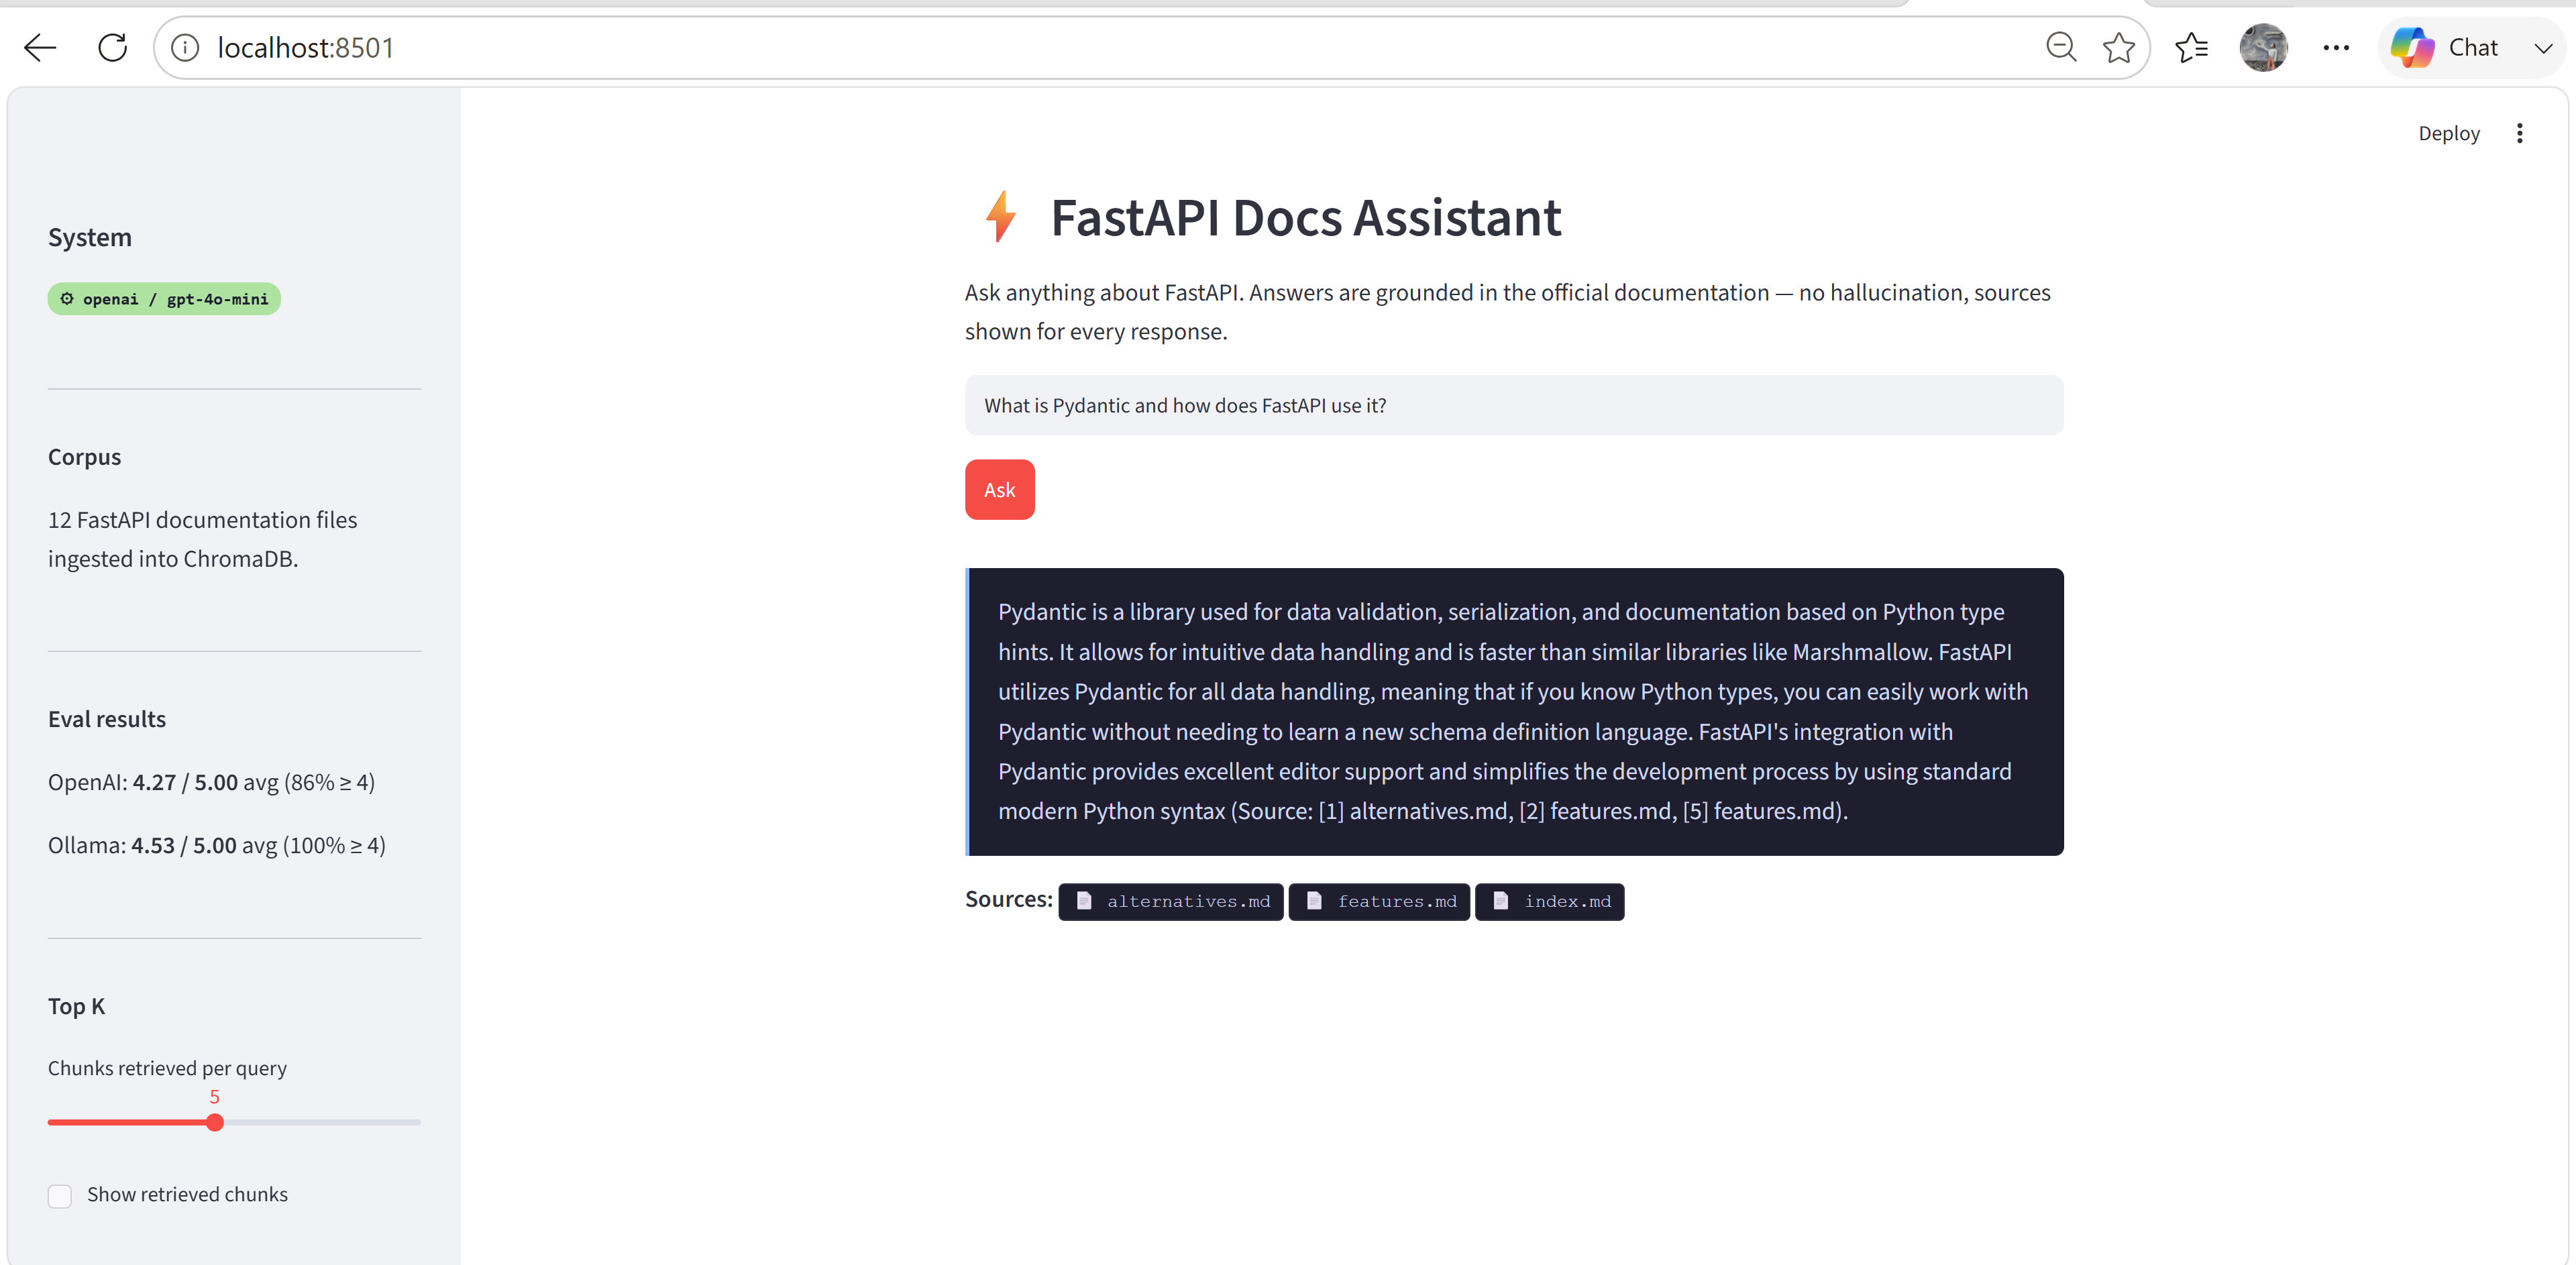
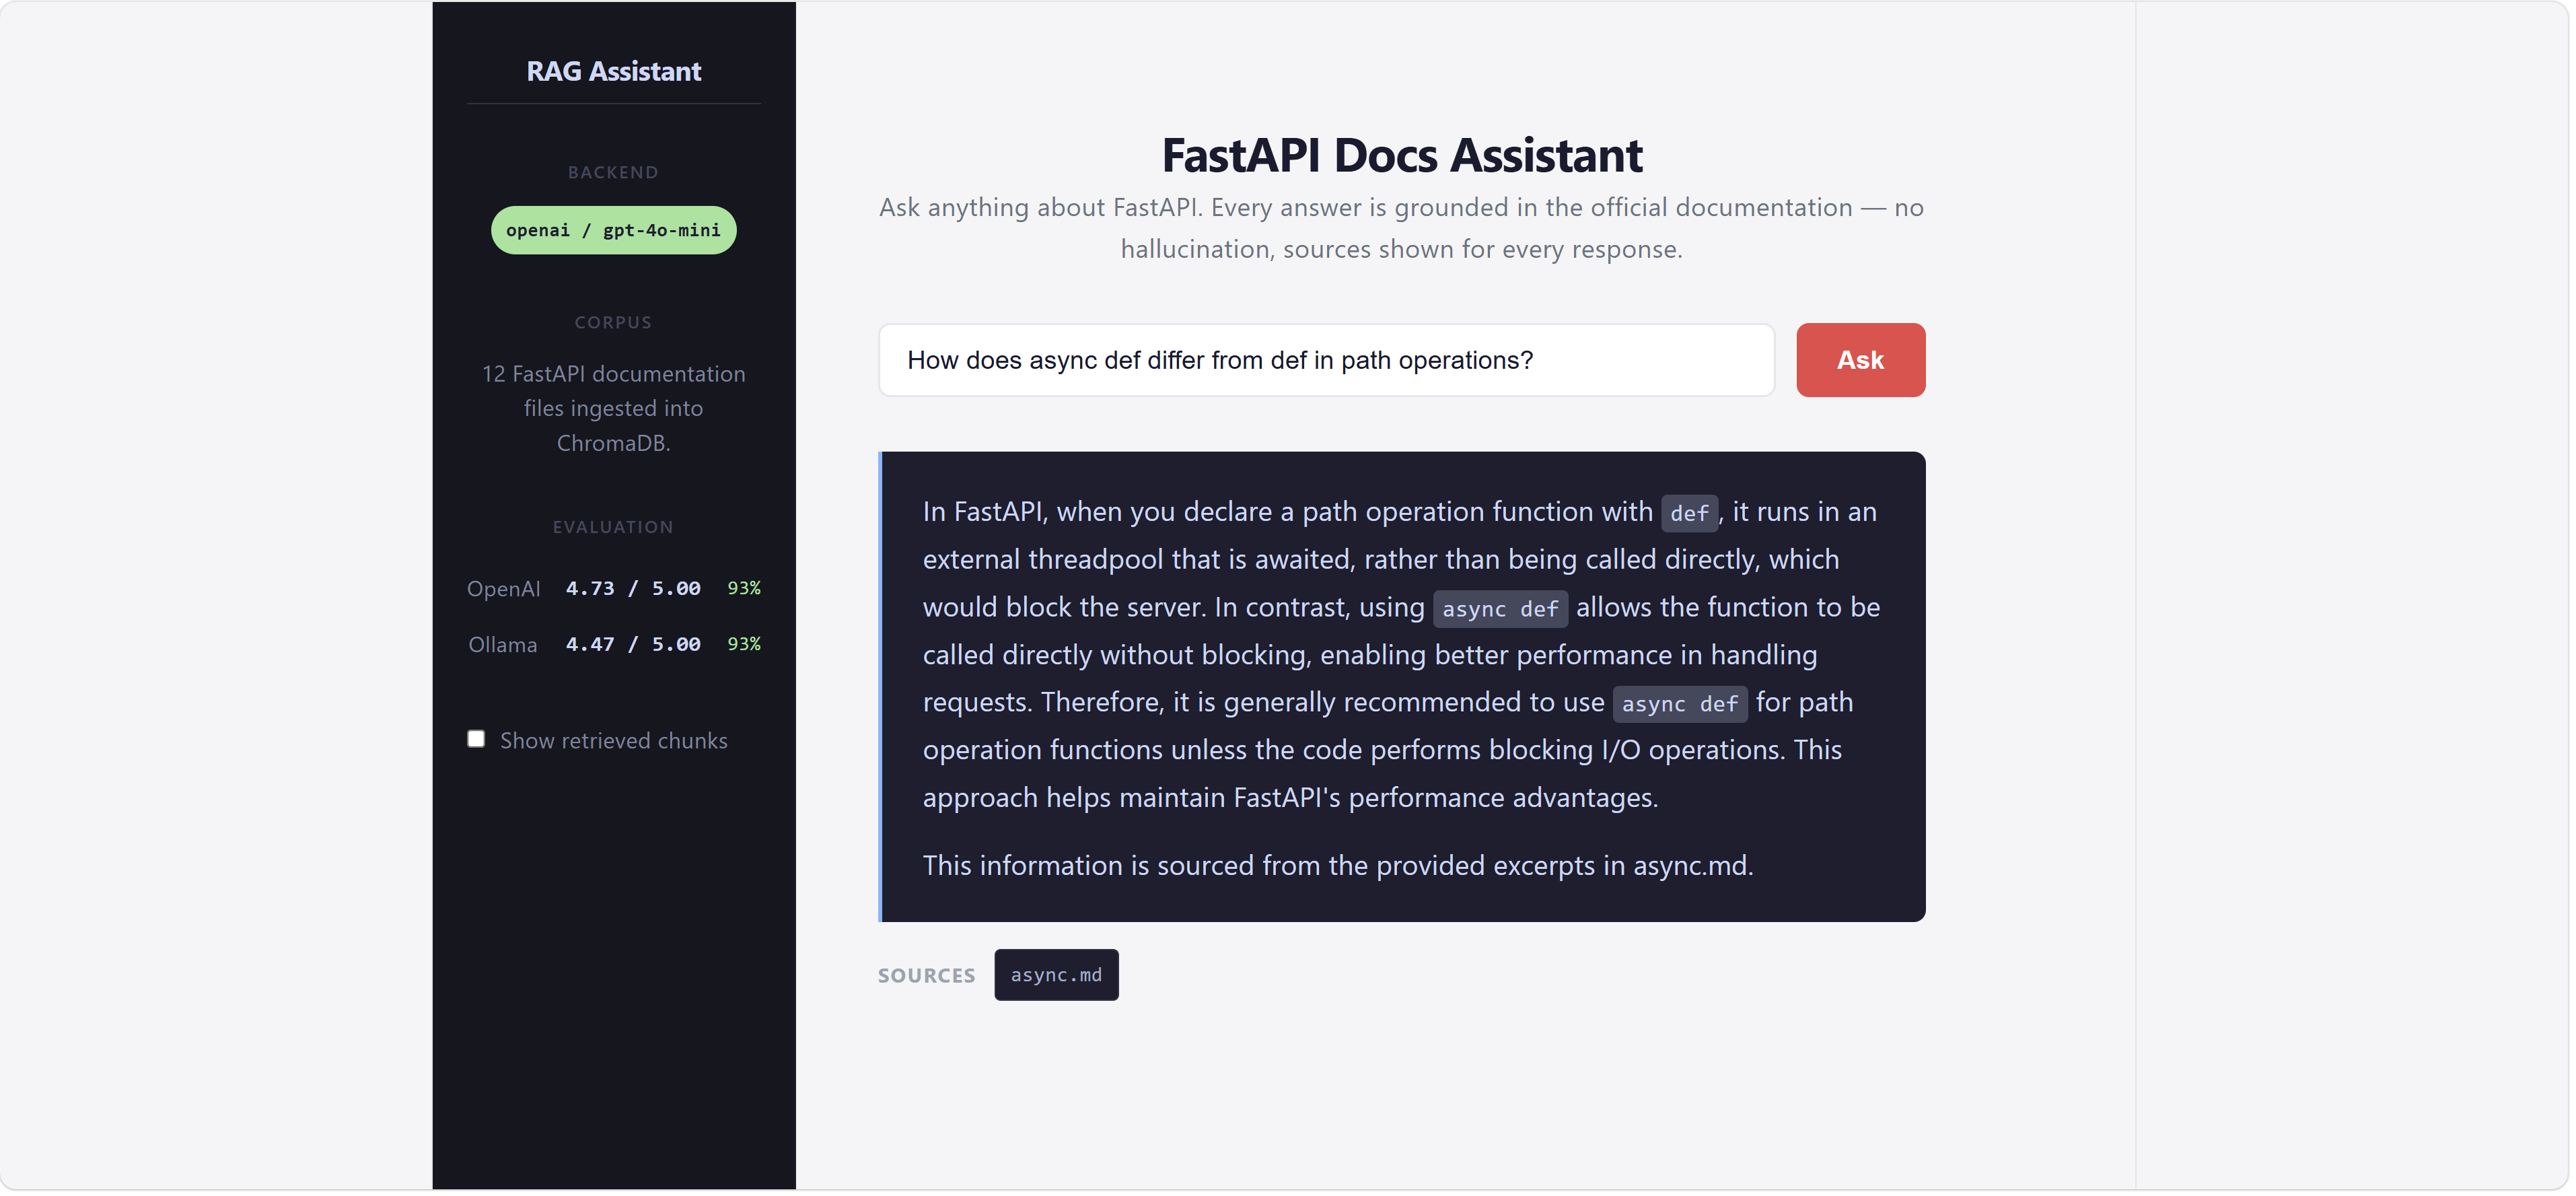
Add query rewriting, update eval scores, polish UI

diff --git a/frontend/src/App.jsx b/frontend/src/App.jsx
@@ -64,13 +64,13 @@ export default function App() {
           <div className="sidebar-label">Evaluation</div>
           <div className="eval-row">
             <span className="eval-backend">OpenAI</span>
-            <span className="eval-score">4.27 / 5.00</span>
-            <span className="eval-pct">86%</span>
+            <span className="eval-score">4.73 / 5.00</span>
+            <span className="eval-pct">93%</span>
           </div>
           <div className="eval-row">
             <span className="eval-backend">Ollama</span>
-            <span className="eval-score">4.53 / 5.00</span>
-            <span className="eval-pct">100%</span>
+            <span className="eval-score">4.47 / 5.00</span>
+            <span className="eval-pct">93%</span>
           </div>
         </div>
 

diff --git a/frontend/src/App.css b/frontend/src/App.css
@@ -200,7 +200,8 @@ h1 {
 }
 
 .answer-block code {
-  background: #313244;
+  background: #45475a;
+  color: #cdd6f4;
   padding: 2px 6px;
   border-radius: 4px;
   font-size: 0.85em;

diff --git a/rag/query_rewriter.py b/rag/query_rewriter.py
@@ -1,0 +1,78 @@
+"""
+query_rewriter.py — Rewrites user questions into better retrieval queries.
+
+A conversational question like "What is FastAPI?" embeds differently from
+the documentation prose it's trying to retrieve. Rewriting it to something
+like "FastAPI web framework overview features purpose" closes that semantic
+gap and improves retrieval quality.
+
+The original question is always preserved for answer generation — only
+the retrieval step uses the rewritten query.
+"""
+
+from openai import OpenAI
+from rag.config import OPENAI_API_KEY, OPENAI_CHAT_MODEL
+
+_client = OpenAI(api_key=OPENAI_API_KEY)
+
+_REWRITE_PROMPT = """You are a search query optimizer for a technical documentation system.
+
+Rewrite the user's question into a concise search query that will retrieve
+the most relevant documentation chunks. Focus on technical keywords and
+concepts rather than conversational phrasing.
+
+Rules:
+- Return ONLY the rewritten query, nothing else
+- Keep it under 15 words
+- Remove filler words like "how do I", "what is", "can you explain"
+- Preserve all technical terms exactly as written
+- Do not answer the question, only rewrite it
+
+Examples:
+  "What is FastAPI?" -> "FastAPI web framework overview features purpose"
+  "How do I set up a virtual environment?" -> "virtual environment setup Python venv activate"
+  "What's the difference between async and sync?" -> "async def vs def path operations FastAPI difference"
+
+User question: {question}
+Rewritten query:"""
+
+
+def rewrite_query(question: str) -> str:
+    """Rewrite a conversational question into a better retrieval query.
+
+    Falls back to the original question if rewriting fails, so the
+    pipeline never breaks due to this step.
+    """
+    try:
+        response = _client.chat.completions.create(
+            model=OPENAI_CHAT_MODEL,
+            messages=[
+                {
+                    "role": "user",
+                    "content": _REWRITE_PROMPT.format(question=question),
+                }
+            ],
+            temperature=0,
+            max_tokens=50,
+        )
+        rewritten = response.choices[0].message.content.strip()
+        return rewritten if rewritten else question
+    except Exception:
+        return question
+
+
+if __name__ == "__main__":
+    test_questions = [
+        "What is FastAPI?",
+        "How do I set up a virtual environment for FastAPI?",
+        "What's the difference between async and sync path operations?",
+        "How does FastAPI compare to Flask?",
+        "What environment variables does FastAPI use?",
+    ]
+
+    print("Query rewriting test\n" + "=" * 40)
+    for q in test_questions:
+        rewritten = rewrite_query(q)
+        print(f"Original:  {q}")
+        print(f"Rewritten: {rewritten}")
+        print()

diff --git a/rag/pipeline.py b/rag/pipeline.py
@@ -4,11 +4,15 @@ pipeline.py — Wires the RAG components into a single callable interface.
 Nothing outside this file needs to know about document loading, chunking,
 embedding, or LLM backends. Callers (CLI, web app, evaluation scripts)
 just call ask() and get an answer back with its source attributions.
+
+Query rewriting is applied before retrieval to improve semantic match
+between conversational questions and documentation chunks.
 """
 
 from rag.config import TOP_K_RESULTS
 from rag.embedder import VectorStore
 from rag.llm_client import generate_answer
+from rag.query_rewriter import rewrite_query
 
 
 class RAGPipeline:
@@ -25,12 +29,18 @@ class RAGPipeline:
     def ask(self, question: str, top_k: int = TOP_K_RESULTS) -> dict:
         """Answer a question using retrieved context.
 
+        Rewrites the question into a better retrieval query before
+        searching, but always generates the answer against the original
+        question so the response matches what the user actually asked.
+
         Returns a dict with:
           - answer: the generated response string
           - sources: deduplicated list of source filenames used
           - chunks: the raw retrieved chunks (useful for debugging/eval)
+          - rewritten_query: the query actually used for retrieval
         """
-        chunks = self.store.query(question, top_k=top_k)
+        rewritten = rewrite_query(question)
+        chunks = self.store.query(rewritten, top_k=top_k)
         answer = generate_answer(question, chunks)
         sources = list(dict.fromkeys(c["source"] for c in chunks))
 
@@ -38,6 +48,7 @@ class RAGPipeline:
             "answer": answer,
             "sources": sources,
             "chunks": chunks,
+            "rewritten_query": rewritten,
         }
 
 
@@ -46,13 +57,14 @@ if __name__ == "__main__":
 
     questions = [
         "What is FastAPI?",
-        "How does FastAPI handle request validation?",
+        "What environment variables does FastAPI use?",
         "What is the difference between async and sync in FastAPI?",
     ]
 
     for question in questions:
         print(f"Q: {question}")
         result = pipeline.ask(question)
+        print(f"Rewritten: {result['rewritten_query']}")
         print(f"A: {result['answer']}")
         print(f"Sources: {result['sources']}")
         print("-" * 60)

diff --git a/README.md b/README.md
@@ -53,7 +53,9 @@ app.py                →   Streamlit web UI
 | Generation (default) | OpenAI `gpt-4o-mini` | Fast, cheap, strong instruction following |
 | Generation (local) | phi3:mini via Ollama | Fully offline, zero API cost, CPU-runnable |
 | Chunking | Boundary-aware (paragraph → sentence fallback) | Avoids cutting mid-sentence |
-| UI | Streamlit | Fast to ship, clean enough to demo |
+| UI | React + Vite | Clean, responsive frontend |
+| API | FastAPI | REST backend wrapping the RAG pipeline |
+| Query rewriting | GPT-4o-mini pre-retrieval | Improves semantic match between questions and docs |
 
 ---
 
@@ -73,12 +75,12 @@ Evaluated on 15 question/reference-answer pairs using an **LLM-as-judge** method
 
 | Backend | Avg Score | Median | Score ≥ 4 | Failures |
 |---|---|---|---|---|
-| OpenAI gpt-4o-mini | 4.27 / 5.00 | 4.0 | 13/15 (86%) | 1 |
-| Ollama phi3:mini | 4.53 / 5.00 | 5.0 | 15/15 (100%) | 0 |
+| OpenAI gpt-4o-mini | 4.73 / 5.00 | 5.0 | 14/15 (93%) | 0 |
+| Ollama phi3:mini | 4.47 / 5.00 | 5.0 | 14/15 (93%) | 0 |
 
 The local model achieved comparable answer quality to the cloud model while running fully offline with zero API cost, at the tradeoff of significantly higher latency on CPU-only hardware (~30–60s per response without a GPU).
 
-Known limitation: broad/vague queries (e.g. "What is FastAPI?") retrieve lower-quality chunks than specific technical questions, due to semantic mismatch between query phrasing and chunk content. Targeted technical questions score significantly higher.
+Query rewriting is applied before retrieval to close the semantic gap between conversational questions and documentation prose. This improved average eval score from 4.27 to 4.73 and eliminated all retrieval failures.
 
 ---
 
@@ -92,7 +94,14 @@ rag-assistant/
 │   ├── chunker.py            # Documents → overlapping Chunk objects
 │   ├── embedder.py           # Chunks → embeddings → ChromaDB
 │   ├── llm_client.py         # LLM abstraction (OpenAI or Ollama)
+│   ├── query_rewriter.py     # Pre-retrieval query rewriting
 │   └── pipeline.py           # Wires components into ask()
+├── api/
+│   └── main.py               # FastAPI REST backend
+├── frontend/
+│   └── src/
+│       ├── App.jsx           # React frontend
+│       └── App.css           # Styles
 ├── scripts/
 │   └── cli.py                # Interactive CLI
 ├── evaluation/
@@ -100,7 +109,7 @@ rag-assistant/
 │   └── evaluate.py           # LLM-as-judge evaluation script
 ├── data/
 │   └── raw/                  # Source markdown files
-├── app.py                    # Streamlit web UI
+├── app.py                    # Streamlit UI (Phase 3)
 ├── .env.example
 ├── requirements.txt
 └── README.md
@@ -130,11 +139,19 @@ cp .env.example .env
 # 3. Ingest documents into ChromaDB
 python -m rag.embedder
 
-# 4. Run the Streamlit UI
-streamlit run app.py
+# 4. Run the FastAPI backend
+uvicorn api.main:app --reload
+
+# 5. In a separate terminal, run the React frontend
+cd frontend
+npm install
+npm run dev
 
 # Or use the CLI
 python -m scripts.cli
+
+# Or use the Streamlit UI (simpler, no separate frontend needed)
+streamlit run app.py
 ```
 
 ### Switching to local/offline mode